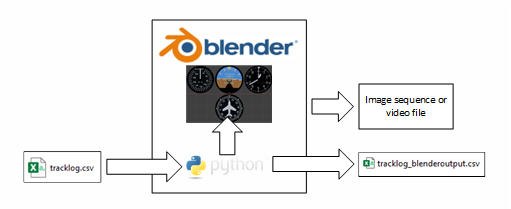
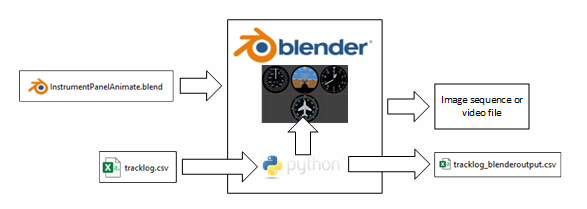
Updated readme and other documentation.

Changed region(s): [[0.0294, 0.0861, 0.9687, 0.9474]]

diff --git a/README.md b/README.md
@@ -1,4 +1,4 @@
-# Flight_Instrument_Simulator
+# Flight Instrument Simulator
 A set of tools that can create motion graphics of some flight instruments using actual flight data logged by ForeFlight, a popular "electronic flight bag" (EFD) used by many pilots.
 
 ## Introduction
@@ -43,14 +43,24 @@ The second method uses blender and its python scripting feature. Flight instrume
 
 
 ### Running the python script in Blender
-Details to be completed.
+This section is still a work-in-progress.
+
+Blender 4.3 was used to create the project file.
+
+The `.blend` file contains all the instrument graphics. 
 
 Basically, open the `.blend` file in Blender, click on the "Scripting" tab, and click the arrow next to the `main.py` to run. It may take a while for the script to process all the keyframes.
-You can use your own tracklog downloaded from ForeFlight. Tracklog should be located in the same folder as the `.blend` file and be named `tracklog.csv`. An example tracklog is included.
+You can use your own tracklog downloaded from ForeFlight. The tracklogto be processed must be located in the same folder as the `.blend` file and be named `tracklog.csv`. An example tracklog is included.
 
-Once all the keyframes are configured, just render the output as you see fit.
+![image](./documentation/blender_run_script.png)]
 
-The `.blend` file contains all the instrument graphics. At this time, the basic graphics will animate, but additional work is needed to improve the look.
+Once all the keyframes are configured, just render the output as you see fit. Use of Blender is beyond the scope of this project...there are plenty of Youtube tutorials that will help you render the output.
+
+This is what the output from Blender currently looks like:
+
+![image](./documentation/blender_output.png)
+
+At this time, the basic graphics will animate, but additional work is needed to improve the look.
 
 ## Why bother with this anyway?
 
